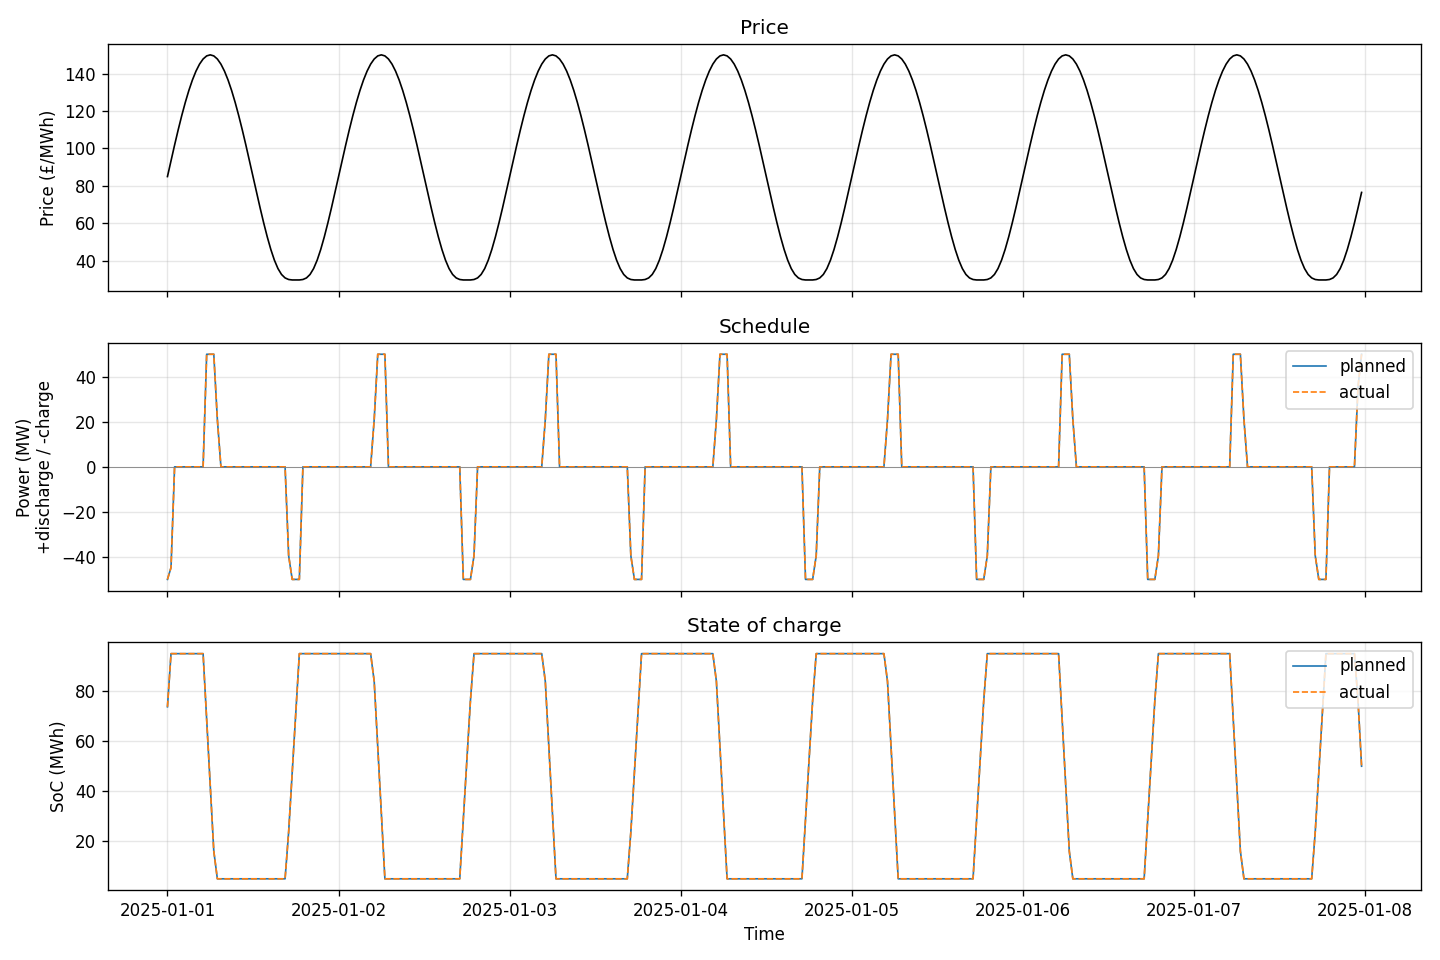
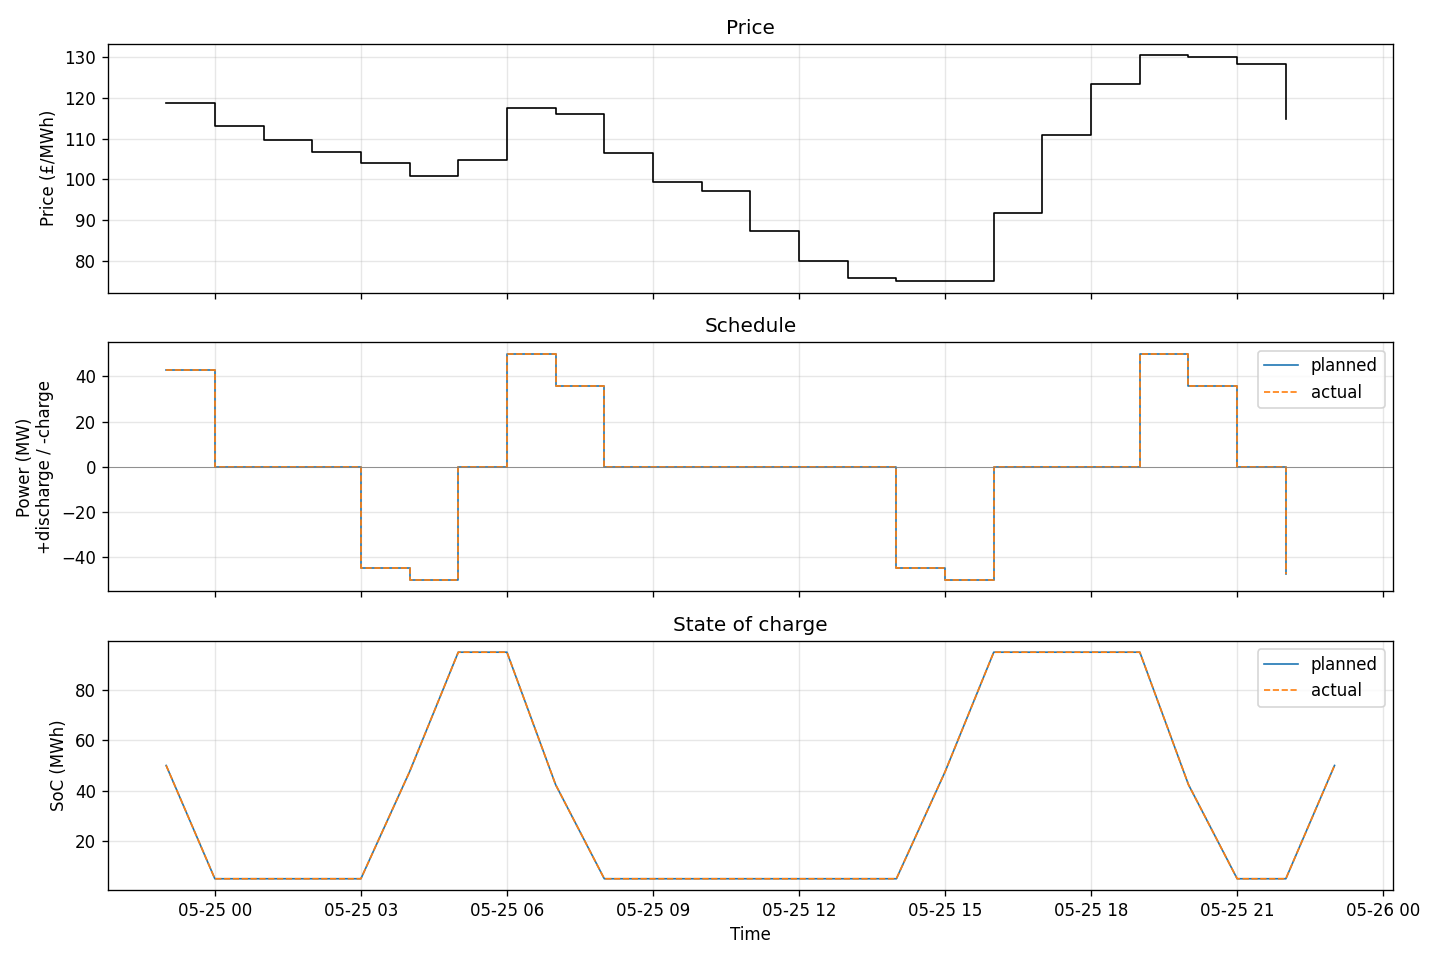
Add CSV price template and fix SoC plot alignment
- examples/prices.csv + examples/scenario_csv.yaml: starter
  template for loading a real price forecast.
- docs/plot.py: SoC values are end-of-step but were being
  plotted at start-of-step timestamps, hiding the initial
  SoC. Read manifest.json for initial SoC and timestep,
  prepend the initial point, and shift each SoC sample by
  one timestep so it lands at the end of its interval.
- docs/plot.py: render price and power as step functions so
  per-interval held values are visually honest.

diff --git a/docs/plot.py b/docs/plot.py
@@ -1,3 +1,4 @@
+import json
 import sys
 from pathlib import Path
 
@@ -11,16 +12,33 @@ out_dir = Path(__file__).parent
 telemetry = pd.read_parquet(run_dir / "telemetry.parquet")
 schedule = pd.read_parquet(run_dir / "schedule.parquet")
 
+manifest = json.loads((run_dir / "manifest.json").read_text())
+site = manifest["scenario"]["site"]
+soc_initial_mwh = site["soc_initial_frac"] * site["energy_mwh"]
+dt = pd.Timedelta(minutes=manifest["scenario"]["timestep_minutes"])
+
+soc_planned_t = schedule.index + dt
+soc_planned_y = schedule["soc_planned"].to_numpy()
+soc_actual_t = telemetry["timestamp"] + dt
+soc_actual_y = telemetry["soc_mwh"].to_numpy()
+
 fig, axes = plt.subplots(3, 1, figsize=(12, 8), sharex=True)
 
 ax = axes[0]
-ax.plot(schedule.index, schedule["price"], color="black", linewidth=1)
+ax.plot(schedule.index, schedule["price"], color="black", linewidth=1, drawstyle="steps-post")
 ax.set_ylabel("Price (£/MWh)")
 ax.set_title("Price")
 ax.grid(alpha=0.3)
 
 ax = axes[1]
-ax.plot(schedule.index, schedule["p_net"], color="tab:blue", linewidth=1, label="planned")
+ax.plot(
+    schedule.index,
+    schedule["p_net"],
+    color="tab:blue",
+    linewidth=1,
+    label="planned",
+    drawstyle="steps-post",
+)
 ax.plot(
     telemetry["timestamp"],
     telemetry["p_actual_mw"],
@@ -28,6 +46,7 @@ ax.plot(
     linewidth=1,
     linestyle="--",
     label="actual",
+    drawstyle="steps-post",
 )
 ax.axhline(0, color="grey", linewidth=0.5)
 ax.set_ylabel("Power (MW)\n+discharge / -charge")
@@ -36,10 +55,16 @@ ax.legend(loc="upper right")
 ax.grid(alpha=0.3)
 
 ax = axes[2]
-ax.plot(schedule.index, schedule["soc_planned"], color="tab:blue", linewidth=1, label="planned")
 ax.plot(
-    telemetry["timestamp"],
-    telemetry["soc_mwh"],
+    [schedule.index[0], *soc_planned_t],
+    [soc_initial_mwh, *soc_planned_y],
+    color="tab:blue",
+    linewidth=1,
+    label="planned",
+)
+ax.plot(
+    [telemetry["timestamp"].iloc[0], *soc_actual_t],
+    [soc_initial_mwh, *soc_actual_y],
     color="tab:orange",
     linewidth=1,
     linestyle="--",
